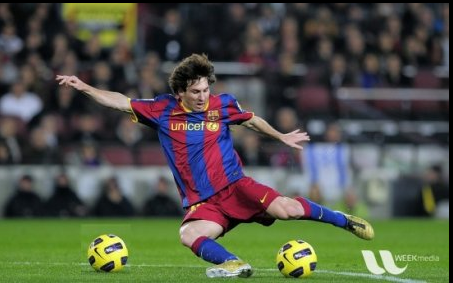
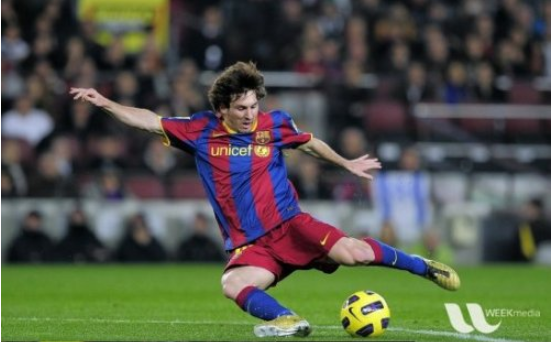
[add: image pyramid script and refactor ball pos]

diff --git a/basic_operations_on_image.py b/basic_operations_on_image.py
@@ -46,10 +46,10 @@ datatype = img.dtype
 
 print(rows, cols, channels, size, datatype)
 
-ball = img[230:283, 270:320]
+ball = img[290:343, 340:390]
 # testing
 # display_image("test", ball)
-img[225:278, 130:180] = ball
+img[288:340, 150:200] = ball
 display_image("cropped and pasted", img)
 
 # we can split this way as well
@@ -62,24 +62,24 @@ img[:, :, 2] = 0  # to make red pixels to zero (image will appear a bit cyan-ish
 
 # and this way we can merge
 # img = cv.merge((b, g, r))
-display_image("merged", img)
+# display_image("merged", img)
 
-data = 10
-img = cv.imread("images/letter_j.png")
-replicate = cv.copyMakeBorder(img, data, data, data, data, cv.BORDER_REPLICATE)
-reflect = cv.copyMakeBorder(img, data, data, data, data, cv.BORDER_REFLECT)
-reflect101 = cv.copyMakeBorder(img, data, data, data, data, cv.BORDER_REFLECT_101)
-wrap = cv.copyMakeBorder(img, data, data, data, data, cv.BORDER_WRAP)
-constant = cv.copyMakeBorder(
-    img, data, data, data, data, cv.BORDER_CONSTANT, value=(255, 0, 0)
-)
-plt.subplot(231), plt.imshow(img, "gray"), plt.title("ORIGINAL")  # type:ignore
-plt.subplot(232), plt.imshow(replicate, "gray"), plt.title("REPLICATE")  # type:ignore
-plt.subplot(233), plt.imshow(reflect, "gray"), plt.title("REFLECT")  # type:ignore
-plt.subplot(234), plt.imshow(reflect101, "gray"), plt.title(
-    "REFLECT_101"
-)  # type:ignore
-plt.subplot(235), plt.imshow(wrap, "gray"), plt.title("WARP")  # type:ignore
-plt.subplot(236), plt.imshow(constant, "gray"), plt.title("CONSTANT")  # type:ignore
+# data = 10
+# img = cv.imread("images/letter_j.png")
+# replicate = cv.copyMakeBorder(img, data, data, data, data, cv.BORDER_REPLICATE)
+# reflect = cv.copyMakeBorder(img, data, data, data, data, cv.BORDER_REFLECT)
+# reflect101 = cv.copyMakeBorder(img, data, data, data, data, cv.BORDER_REFLECT_101)
+# wrap = cv.copyMakeBorder(img, data, data, data, data, cv.BORDER_WRAP)
+# constant = cv.copyMakeBorder(
+#     img, data, data, data, data, cv.BORDER_CONSTANT, value=(255, 0, 0)
+# )
+# plt.subplot(231), plt.imshow(img, "gray"), plt.title("ORIGINAL")  # type:ignore
+# plt.subplot(232), plt.imshow(replicate, "gray"), plt.title("REPLICATE")  # type:ignore
+# plt.subplot(233), plt.imshow(reflect, "gray"), plt.title("REFLECT")  # type:ignore
+# plt.subplot(234), plt.imshow(reflect101, "gray"), plt.title(
+#     "REFLECT_101"
+# )  # type:ignore
+# plt.subplot(235), plt.imshow(wrap, "gray"), plt.title("WARP")  # type:ignore
+# plt.subplot(236), plt.imshow(constant, "gray"), plt.title("CONSTANT")  # type:ignore
 
-plt.show()
+# plt.show()

diff --git a/image_pyramids.py b/image_pyramids.py
@@ -1,0 +1,34 @@
+import cv2 as cv
+import numpy as np
+
+img = cv.imread("images/messi.png")
+# examples of gaussian pyramid down (upto 4 levels)
+lower_res = cv.pyrDown(img)
+even_lower_res = cv.pyrDown(lower_res)
+even_more_lower_res = cv.pyrDown(even_lower_res)
+
+cv.imshow("original res", img)
+cv.waitKey(0)
+cv.imshow("lower res", lower_res)
+cv.waitKey(0)
+cv.imshow("even lower res", even_lower_res)
+cv.waitKey(0)
+cv.imshow("even more lower res", even_more_lower_res)
+cv.waitKey(0)
+cv.destroyAllWindows()
+
+# examples of gaussian pyramind up (upto 4 levels )
+higher_res = cv.pyrUp(
+    img
+)  # to see the consequences of scaling up and down these images use even_more_lower_res in this function
+even_higher_res = cv.pyrUp(higher_res)
+even_more_higher_res = cv.pyrUp(even_higher_res)
+cv.imshow("original res", img)
+cv.waitKey(0)
+cv.imshow("higher res", higher_res)
+cv.waitKey(0)
+cv.imshow("even higher res", even_higher_res)
+cv.waitKey(0)
+cv.imshow("even more higher res", even_more_higher_res)
+cv.waitKey(0)
+cv.destroyAllWindows()
